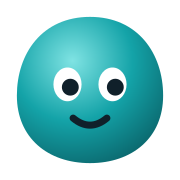
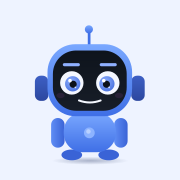
Replace robot image and change color scheme to blue (6adab00f1f661795318246ba)

diff --git a/site/index.html b/site/index.html
@@ -20,12 +20,12 @@
   <link rel="apple-touch-icon" href="apple-touch-icon.png">
   <style>
     /* ============ Design-Tokens ============
-       BORAN: Hauptfarbe von Pulo hier eintragen (--accent / --buddy). Türkis ist Platzhalter. */
+       Hauptfarbe von Pulo: Blau (--accent / --buddy). */
     :root {
-      --buddy: #14a3a8;
-      --accent: #0a7a80;          /* Text/Buttons auf Hell: AA-Kontrast */
+      --buddy: #4f7ff0;
+      --accent: #2f5fd6;          /* Text/Buttons auf Hell: AA-Kontrast */
       --accent-ink: #ffffff;
-      --accent-soft: rgba(20, 163, 168, .12);
+      --accent-soft: rgba(79, 127, 240, .12);
       --bg: #f5f7f8;
       --bg-elev: #ffffff;
       --text: #10181c;
@@ -40,9 +40,9 @@
     }
     @media (prefers-color-scheme: dark) {
       :root {
-        --accent: #4fd6d9;
-        --accent-ink: #062326;
-        --accent-soft: rgba(79, 214, 217, .12);
+        --accent: #8fb0ff;
+        --accent-ink: #0a1633;
+        --accent-soft: rgba(143, 176, 255, .14);
         --bg: #0b1114;
         --bg-elev: #131b1f;
         --text: #eef3f4;
@@ -138,18 +138,17 @@
       -webkit-tap-highlight-color: transparent; border-radius: 40%;
     }
     .buddy svg { width: 100%; height: 100%; overflow: visible; }
-    .buddy .body-g { transform-origin: 100px 178px; transform-box: view-box; }
+    .buddy .body-g { transform-origin: 50% 97%; transform-box: fill-box; }
     .buddy .eye { transform-box: fill-box; transform-origin: center; transition: transform .09s ease-in; }
     .buddy.blink .eye { transform: scaleY(.08); }
     .buddy .pupil { transition: transform .12s linear; }
-    .buddy .brow { opacity: 0; transition: opacity .3s, transform .3s; transform-box: fill-box; transform-origin: center; }
-    .buddy[data-mood="worried"] .brow, .buddy[data-mood="sad"] .brow { opacity: 1; }
+    .buddy .brow { transition: transform .3s; transform-box: fill-box; transform-origin: center; }
     .buddy[data-mood="sad"] .brow-l { transform: rotate(14deg) translateY(-2px); }
     .buddy[data-mood="sad"] .brow-r { transform: rotate(-14deg) translateY(-2px); }
     .buddy[data-mood="worried"] .brow-l { transform: rotate(-8deg); }
     .buddy[data-mood="worried"] .brow-r { transform: rotate(8deg); }
     .buddy .cheek { transition: opacity .3s; }
-    .buddy[data-mood="sad"] .cheek { opacity: .15; }
+    .buddy[data-mood="sad"] .cheek { opacity: .1; }
     .buddy .mouth { transition: d .3s var(--ease); }
     .buddy .tear { opacity: 0; transition: opacity .4s; }
     .buddy[data-mood="sad"] .tear { opacity: .9; }
@@ -159,13 +158,13 @@
       0% { transform: scale(1, 1); } 30% { transform: scale(1.08, .9); } 60% { transform: scale(.95, 1.06); } 100% { transform: scale(1, 1); }
     }
     .buddy.idle .body-g { animation: idle 5s ease-in-out infinite; }
-    @keyframes idle { 0%, 100% { transform: translateY(0) scale(1); } 50% { transform: translateY(-6px) scale(1.01, .995); } }
+    @keyframes idle { 0%, 100% { transform: translateY(0) scale(1); } 50% { transform: translateY(-10px) scale(1.01, .995); } }
     .buddy.idle.boop .body-g { animation: boop .55s var(--ease); }
 
     /* ============ Video ============ */
     .video-frame {
       position: relative; margin: 3rem auto 0; max-width: 1000px; aspect-ratio: 16 / 9; border-radius: calc(var(--radius) + 6px);
-      overflow: hidden; background: #0c1f26; box-shadow: var(--shadow); border: 1px solid var(--line);
+      overflow: hidden; background: #0c1426; box-shadow: var(--shadow); border: 1px solid var(--line);
     }
     .video-frame video { width: 100%; height: 100%; object-fit: cover; }
     .play {
@@ -182,7 +181,7 @@
     .play[hidden] { display: none; }
     .video-placeholder {
       position: absolute; inset: 0; display: grid; place-items: end center; padding: 1.4rem; text-align: center;
-      background: url(media/poster.svg) center / cover no-repeat; color: #e8f6f6;
+      background: url(media/poster.svg) center / cover no-repeat; color: #eef3ff;
     }
     .video-placeholder p { background: rgba(0,0,0,.45); padding: .5rem 1rem; border-radius: 999px; font-size: .92rem; margin: 0; -webkit-backdrop-filter: blur(10px); backdrop-filter: blur(10px); }
     .video-placeholder[hidden] { display: none; }
@@ -295,41 +294,80 @@
   <!-- Gemeinsame Verläufe für alle Buddys (Farbe folgt --buddy) -->
   <svg width="0" height="0" style="position:absolute" aria-hidden="true" focusable="false">
     <defs>
-      <radialGradient id="pulo-body" cx="36%" cy="28%" r="78%">
-        <stop offset="0" style="stop-color: color-mix(in oklab, var(--buddy) 45%, white)"/>
-        <stop offset=".55" style="stop-color: var(--buddy)"/>
-        <stop offset="1" style="stop-color: color-mix(in oklab, var(--buddy) 62%, black)"/>
+      <linearGradient id="pulo-body" x1="0" y1="0" x2="0" y2="1">
+        <stop offset="0" style="stop-color: color-mix(in oklab, var(--buddy) 62%, white)"/>
+        <stop offset="1" style="stop-color: color-mix(in oklab, var(--buddy) 88%, black)"/>
+      </linearGradient>
+      <linearGradient id="pulo-side" x1="0" y1="0" x2="1" y2="0">
+        <stop offset="0" style="stop-color: color-mix(in oklab, var(--buddy) 85%, white)"/>
+        <stop offset="1" style="stop-color: color-mix(in oklab, var(--buddy) 82%, black)"/>
+      </linearGradient>
+      <linearGradient id="pulo-ear" x1="0" y1="0" x2="0" y2="1">
+        <stop offset="0" style="stop-color: color-mix(in oklab, var(--buddy) 72%, black)"/>
+        <stop offset="1" style="stop-color: color-mix(in oklab, var(--buddy) 56%, black)"/>
+      </linearGradient>
+      <linearGradient id="pulo-screen" x1="0" y1="0" x2="0" y2="1">
+        <stop offset="0" stop-color="#0e141c"/>
+        <stop offset="1" stop-color="#171d28"/>
+      </linearGradient>
+      <radialGradient id="pulo-iris" cx=".4" cy=".35" r=".8">
+        <stop offset="0" style="stop-color: color-mix(in oklab, var(--buddy) 55%, white)"/>
+        <stop offset="1" style="stop-color: color-mix(in oklab, var(--buddy) 92%, black)"/>
       </radialGradient>
       <radialGradient id="pulo-shadow" cx="50%" cy="50%" r="50%">
         <stop offset="0" stop-color="#000" stop-opacity=".28"/>
         <stop offset="1" stop-color="#000" stop-opacity="0"/>
       </radialGradient>
+      <clipPath id="pulo-eye-l"><circle cx="104" cy="162" r="26"/></clipPath>
+      <clipPath id="pulo-eye-r"><circle cx="184" cy="162" r="26"/></clipPath>
     </defs>
   </svg>
 
   <!-- Buddy-Vorlage: wird per JS in jedes [data-buddy] geklont -->
   <template id="buddy-tpl">
-    <svg viewBox="0 0 200 200" aria-hidden="true" focusable="false">
-      <ellipse cx="100" cy="184" rx="62" ry="9" fill="url(#pulo-shadow)"/>
+    <svg viewBox="-29 0 347 347" aria-hidden="true" focusable="false">
+      <ellipse cx="144" cy="335" rx="88" ry="9" fill="url(#pulo-shadow)"/>
       <g class="body-g">
-        <path d="M100 32 C104 22 104 16 100 12" style="stroke: color-mix(in oklab, var(--buddy) 62%, black)" stroke-width="4" fill="none" stroke-linecap="round"/>
-        <circle class="lamp" cx="100" cy="10" r="6.5" style="fill: var(--ok)"/>
-        <path d="M100 30 C150 30 172 70 172 112 C172 156 140 178 100 178 C60 178 28 156 28 112 C28 70 50 30 100 30Z" fill="url(#pulo-body)"/>
-        <ellipse cx="76" cy="56" rx="26" ry="13" fill="#fff" opacity=".28" transform="rotate(-18 76 56)"/>
-        <ellipse class="cheek" cx="58" cy="124" rx="11" ry="6.5" fill="#ff8fa3" opacity=".45"/>
-        <ellipse class="cheek" cx="142" cy="124" rx="11" ry="6.5" fill="#ff8fa3" opacity=".45"/>
-        <path class="brow brow-l" d="M66 72 L90 72" stroke="#10202a" stroke-width="4" stroke-linecap="round"/>
-        <path class="brow brow-r" d="M110 72 L134 72" stroke="#10202a" stroke-width="4" stroke-linecap="round"/>
+        <!-- Antenne -->
+        <rect x="139.5" y="48" width="6" height="36" rx="3" style="fill: color-mix(in oklab, var(--buddy) 88%, black)"/>
+        <circle cx="142.5" cy="43" r="9" fill="url(#pulo-body)"/>
+        <!-- Ohren -->
+        <rect x="22" y="146" width="30" height="56" rx="13" fill="url(#pulo-ear)"/>
+        <rect x="236" y="146" width="30" height="56" rx="13" fill="url(#pulo-ear)"/>
+        <!-- Füße -->
+        <ellipse cx="104" cy="322" rx="23" ry="12" style="fill: color-mix(in oklab, var(--buddy) 82%, black)"/>
+        <ellipse cx="184" cy="322" rx="23" ry="12" style="fill: color-mix(in oklab, var(--buddy) 82%, black)"/>
+        <!-- Arme -->
+        <rect x="58" y="240" width="30" height="66" rx="15" fill="url(#pulo-side)"/>
+        <rect x="200" y="240" width="30" height="66" rx="15" fill="url(#pulo-side)"/>
+        <!-- Körper mit Status-Licht -->
+        <rect x="86" y="228" width="116" height="88" rx="42" fill="url(#pulo-body)"/>
+        <circle class="lamp" cx="144" cy="273" r="12" style="fill: color-mix(in oklab, var(--buddy) 50%, white)"/>
+        <circle cx="141" cy="269" r="4.5" fill="#fff" opacity=".55"/>
+        <!-- Kopf & Bildschirm -->
+        <rect x="50" y="76" width="188" height="160" rx="62" fill="url(#pulo-body)"/>
+        <ellipse cx="92" cy="88" rx="26" ry="6" fill="#fff" opacity=".22" transform="rotate(-10 92 88)"/>
+        <rect x="62" y="90" width="164" height="134" rx="52" fill="url(#pulo-screen)"/>
+        <rect class="brow brow-l" x="85" y="118" width="38" height="7" rx="3.5" style="fill: color-mix(in oklab, var(--buddy) 55%, white)"/>
+        <rect class="brow brow-r" x="165" y="118" width="38" height="7" rx="3.5" style="fill: color-mix(in oklab, var(--buddy) 55%, white)"/>
         <g class="eye">
-          <ellipse cx="78" cy="98" rx="14" ry="17" fill="#fff"/>
-          <g class="pupil"><circle cx="78" cy="100" r="8.5" fill="#10202a"/><circle cx="81" cy="96" r="2.6" fill="#fff"/></g>
+          <circle cx="104" cy="162" r="26" fill="#f4f7ff"/>
+          <g clip-path="url(#pulo-eye-l)"><g class="pupil">
+            <circle cx="106" cy="164" r="17" fill="url(#pulo-iris)"/><circle cx="107" cy="165" r="8" fill="#0c1118"/>
+            <circle cx="100" cy="157" r="4" fill="#fff"/><circle cx="112" cy="172" r="2" fill="#fff" opacity=".8"/>
+          </g></g>
         </g>
         <g class="eye">
-          <ellipse cx="122" cy="98" rx="14" ry="17" fill="#fff"/>
-          <g class="pupil"><circle cx="122" cy="100" r="8.5" fill="#10202a"/><circle cx="125" cy="96" r="2.6" fill="#fff"/></g>
+          <circle cx="184" cy="162" r="26" fill="#f4f7ff"/>
+          <g clip-path="url(#pulo-eye-r)"><g class="pupil">
+            <circle cx="182" cy="164" r="17" fill="url(#pulo-iris)"/><circle cx="181" cy="165" r="8" fill="#0c1118"/>
+            <circle cx="175" cy="157" r="4" fill="#fff"/><circle cx="187" cy="172" r="2" fill="#fff" opacity=".8"/>
+          </g></g>
         </g>
-        <path class="tear" d="M66 116 q-4 8 0 11 q4 -3 0 -11z" fill="#9bdcff"/>
-        <path class="mouth" d="M84 132 Q100 148 116 132" stroke="#10202a" stroke-width="4.5" fill="none" stroke-linecap="round"/>
+        <ellipse class="cheek" cx="79" cy="194" rx="9" ry="6" fill="#ff8fa3" opacity=".3"/>
+        <ellipse class="cheek" cx="209" cy="194" rx="9" ry="6" fill="#ff8fa3" opacity=".3"/>
+        <path class="tear" d="M90 192 q-7 14 0 19 q7 -5 0 -19z" fill="#9bdcff"/>
+        <path class="mouth" d="M122 199 Q144 212 166 199" stroke="#f4f7ff" stroke-width="4.5" fill="none" stroke-linecap="round"/>
       </g>
     </svg>
   </template>
@@ -449,13 +487,13 @@
             <fieldset class="control">
               <legend class="control-label">Buddy-Farbe</legend>
               <div class="swatches" id="swatches">
-                <label class="swatch"><input type="radio" name="color" value="#14a3a8" checked><span style="--c:#14a3a8"></span><span class="sr-only">Türkis</span></label>
-                <label class="swatch"><input type="radio" name="color" value="#3b82f6"><span style="--c:#3b82f6"></span><span class="sr-only">Blau</span></label>
+                <label class="swatch"><input type="radio" name="color" value="#4f7ff0" checked><span style="--c:#4f7ff0"></span><span class="sr-only">Blau</span></label>
+                <label class="swatch"><input type="radio" name="color" value="#14a3a8"><span style="--c:#14a3a8"></span><span class="sr-only">Türkis</span></label>
                 <label class="swatch"><input type="radio" name="color" value="#8b5cf6"><span style="--c:#8b5cf6"></span><span class="sr-only">Violett</span></label>
                 <label class="swatch"><input type="radio" name="color" value="#ec6a9c"><span style="--c:#ec6a9c"></span><span class="sr-only">Rosa</span></label>
                 <label class="swatch"><input type="radio" name="color" value="#f59e0b"><span style="--c:#f59e0b"></span><span class="sr-only">Orange</span></label>
                 <label class="swatch"><input type="radio" name="color" value="#22a55a"><span style="--c:#22a55a"></span><span class="sr-only">Grün</span></label>
-                <label class="custom-color"><input type="color" id="custom-color" value="#14a3a8">Eigene</label>
+                <label class="custom-color"><input type="color" id="custom-color" value="#4f7ff0">Eigene</label>
               </div>
             </fieldset>
             <div class="control">
@@ -610,10 +648,10 @@
 
     // ================= Buddy =================
     const MOUTHS = {
-      happy:   "M84 132 Q100 148 116 132",
-      worried: "M86 136 Q93 131 100 136 Q107 141 114 136",
-      sad:     "M84 140 Q100 126 116 140",
-      wow:     "M93 136 Q100 126 107 136 Q100 146 93 136"
+      happy:   "M122 199 Q144 212 166 199",
+      worried: "M124 204 Q134 198 144 204 Q154 210 164 204",
+      sad:     "M124 208 Q144 194 164 208",
+      wow:     "M134 204 Q144 190 154 204 Q144 218 134 204"
     };
     const LAMP = { ok: "var(--ok)", warn: "var(--warn)", bad: "var(--bad)" };
     const tpl = document.getElementById("buddy-tpl");
@@ -652,11 +690,11 @@
     // Augen folgen dem Zeiger
     function lookAt(b, x, y) {
       const r = b.svg.getBoundingClientRect();
-      const s = r.width / 200;
+      const s = r.width / 347; // viewBox "-29 0 347 347"
       b.pupils.forEach((p, i) => {
-        const ex = r.left + (i ? 122 : 78) * s, ey = r.top + 100 * s;
+        const ex = r.left + ((i ? 184 : 104) + 29) * s, ey = r.top + 162 * s;
         const dx = x - ex, dy = y - ey, d = Math.hypot(dx, dy) || 1;
-        const m = Math.min(5.5, d / 40);
+        const m = Math.min(8, d / 25);
         p.style.transform = `translate(${(dx / d) * m}px, ${(dy / d) * m * .9}px)`;
       });
     }

diff --git a/site/datenschutz.html b/site/datenschutz.html
@@ -8,8 +8,8 @@
   <meta name="color-scheme" content="light dark">
   <link rel="icon" href="favicon.svg" type="image/svg+xml">
   <style>
-    :root { --bg:#f5f7f8; --text:#10181c; --text-2:#4a5961; --accent:#0a7a80; }
-    @media (prefers-color-scheme: dark) { :root { --bg:#0b1114; --text:#eef3f4; --text-2:#a3b1b7; --accent:#4fd6d9; } }
+    :root { --bg:#f5f7f8; --text:#10181c; --text-2:#4a5961; --accent:#2f5fd6; }
+    @media (prefers-color-scheme: dark) { :root { --bg:#0b1114; --text:#eef3f4; --text-2:#a3b1b7; --accent:#8fb0ff; } }
     body { margin:0; background:var(--bg); color:var(--text); font:17px/1.6 -apple-system, BlinkMacSystemFont, "SF Pro Text", "Helvetica Neue", "Segoe UI", Roboto, Arial, sans-serif; -webkit-font-smoothing:antialiased; }
     main { width:min(720px, 100% - 2.5rem); margin:0 auto; padding:4rem 0; }
     h1 { font-size:clamp(2rem, 5vw, 3rem); letter-spacing:-.025em; margin:0 0 1rem; }

diff --git a/site/impressum.html b/site/impressum.html
@@ -8,8 +8,8 @@
   <meta name="color-scheme" content="light dark">
   <link rel="icon" href="favicon.svg" type="image/svg+xml">
   <style>
-    :root { --bg:#f5f7f8; --text:#10181c; --text-2:#4a5961; --accent:#0a7a80; }
-    @media (prefers-color-scheme: dark) { :root { --bg:#0b1114; --text:#eef3f4; --text-2:#a3b1b7; --accent:#4fd6d9; } }
+    :root { --bg:#f5f7f8; --text:#10181c; --text-2:#4a5961; --accent:#2f5fd6; }
+    @media (prefers-color-scheme: dark) { :root { --bg:#0b1114; --text:#eef3f4; --text-2:#a3b1b7; --accent:#8fb0ff; } }
     body { margin:0; background:var(--bg); color:var(--text); font:17px/1.6 -apple-system, BlinkMacSystemFont, "SF Pro Text", "Helvetica Neue", "Segoe UI", Roboto, Arial, sans-serif; -webkit-font-smoothing:antialiased; }
     main { width:min(720px, 100% - 2.5rem); margin:0 auto; padding:4rem 0; }
     h1 { font-size:clamp(2rem, 5vw, 3rem); letter-spacing:-.025em; margin:0 0 1rem; }
